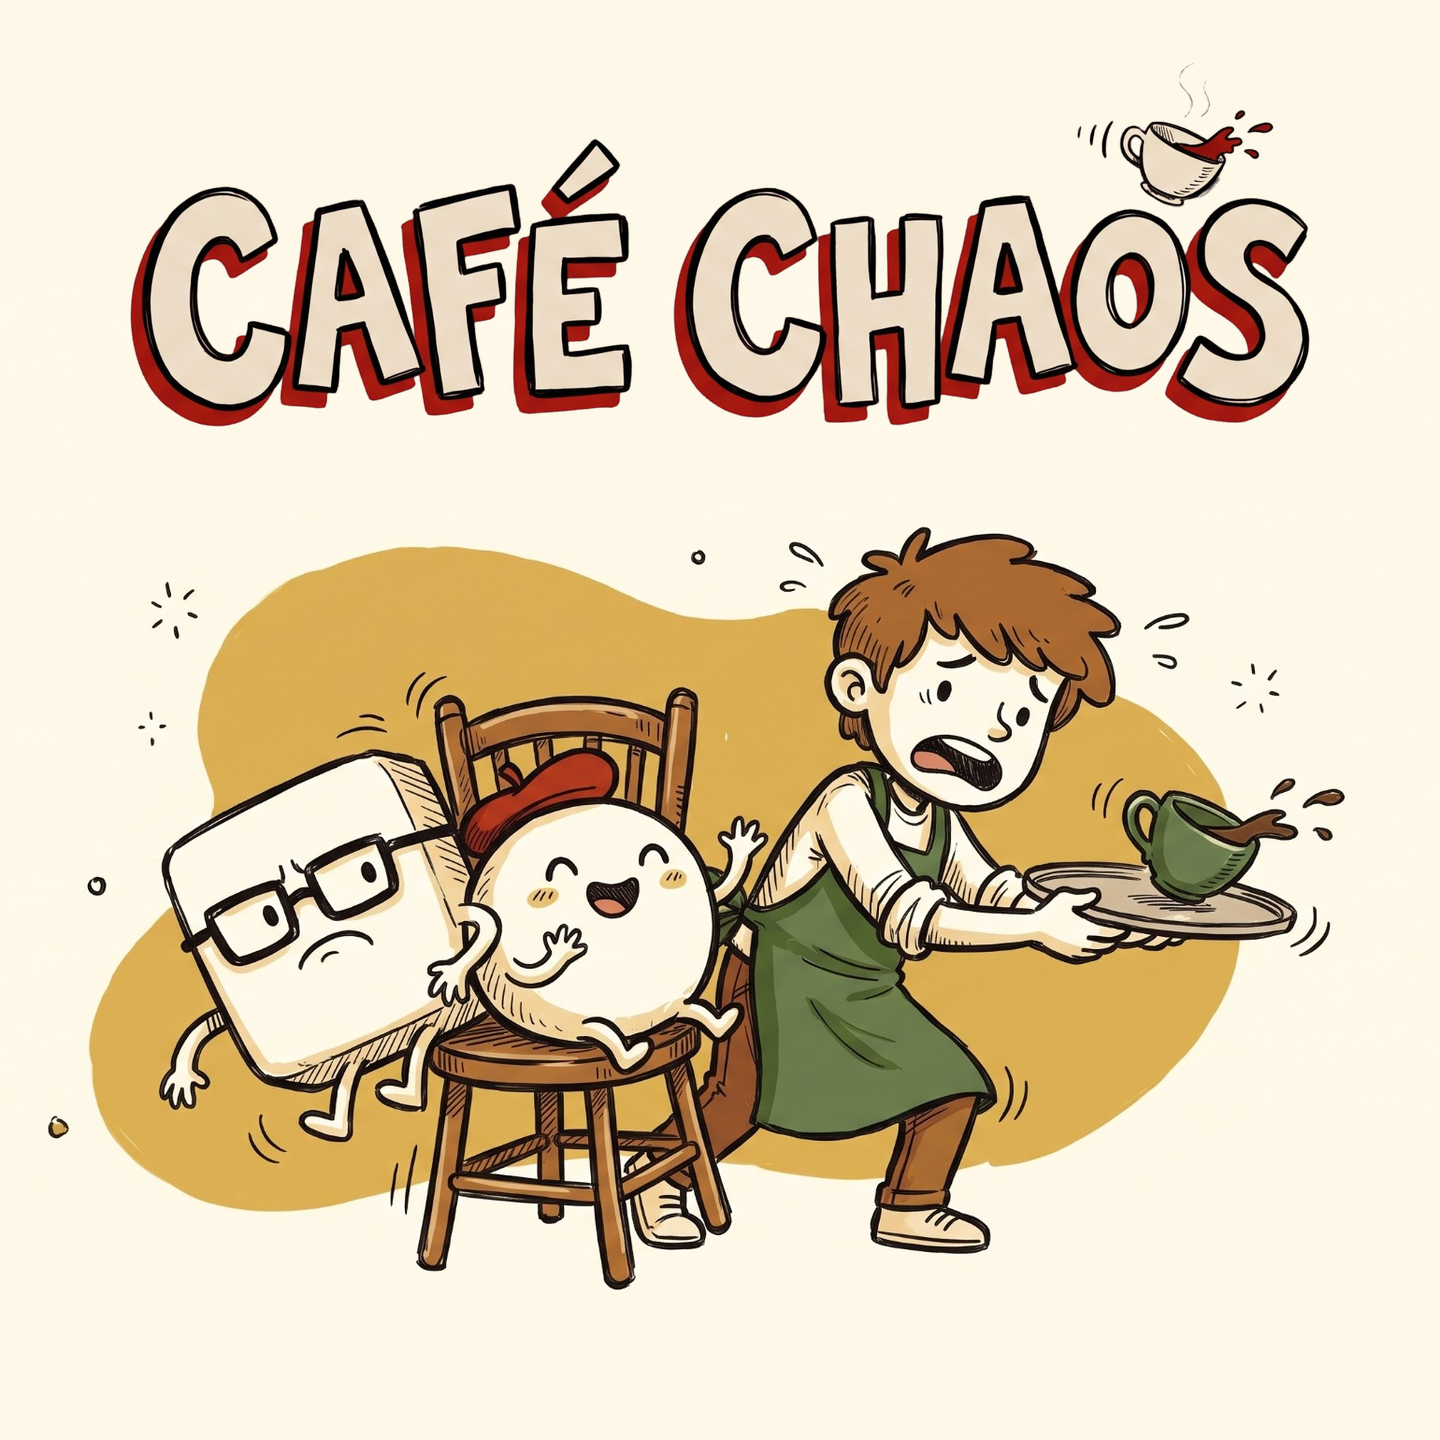
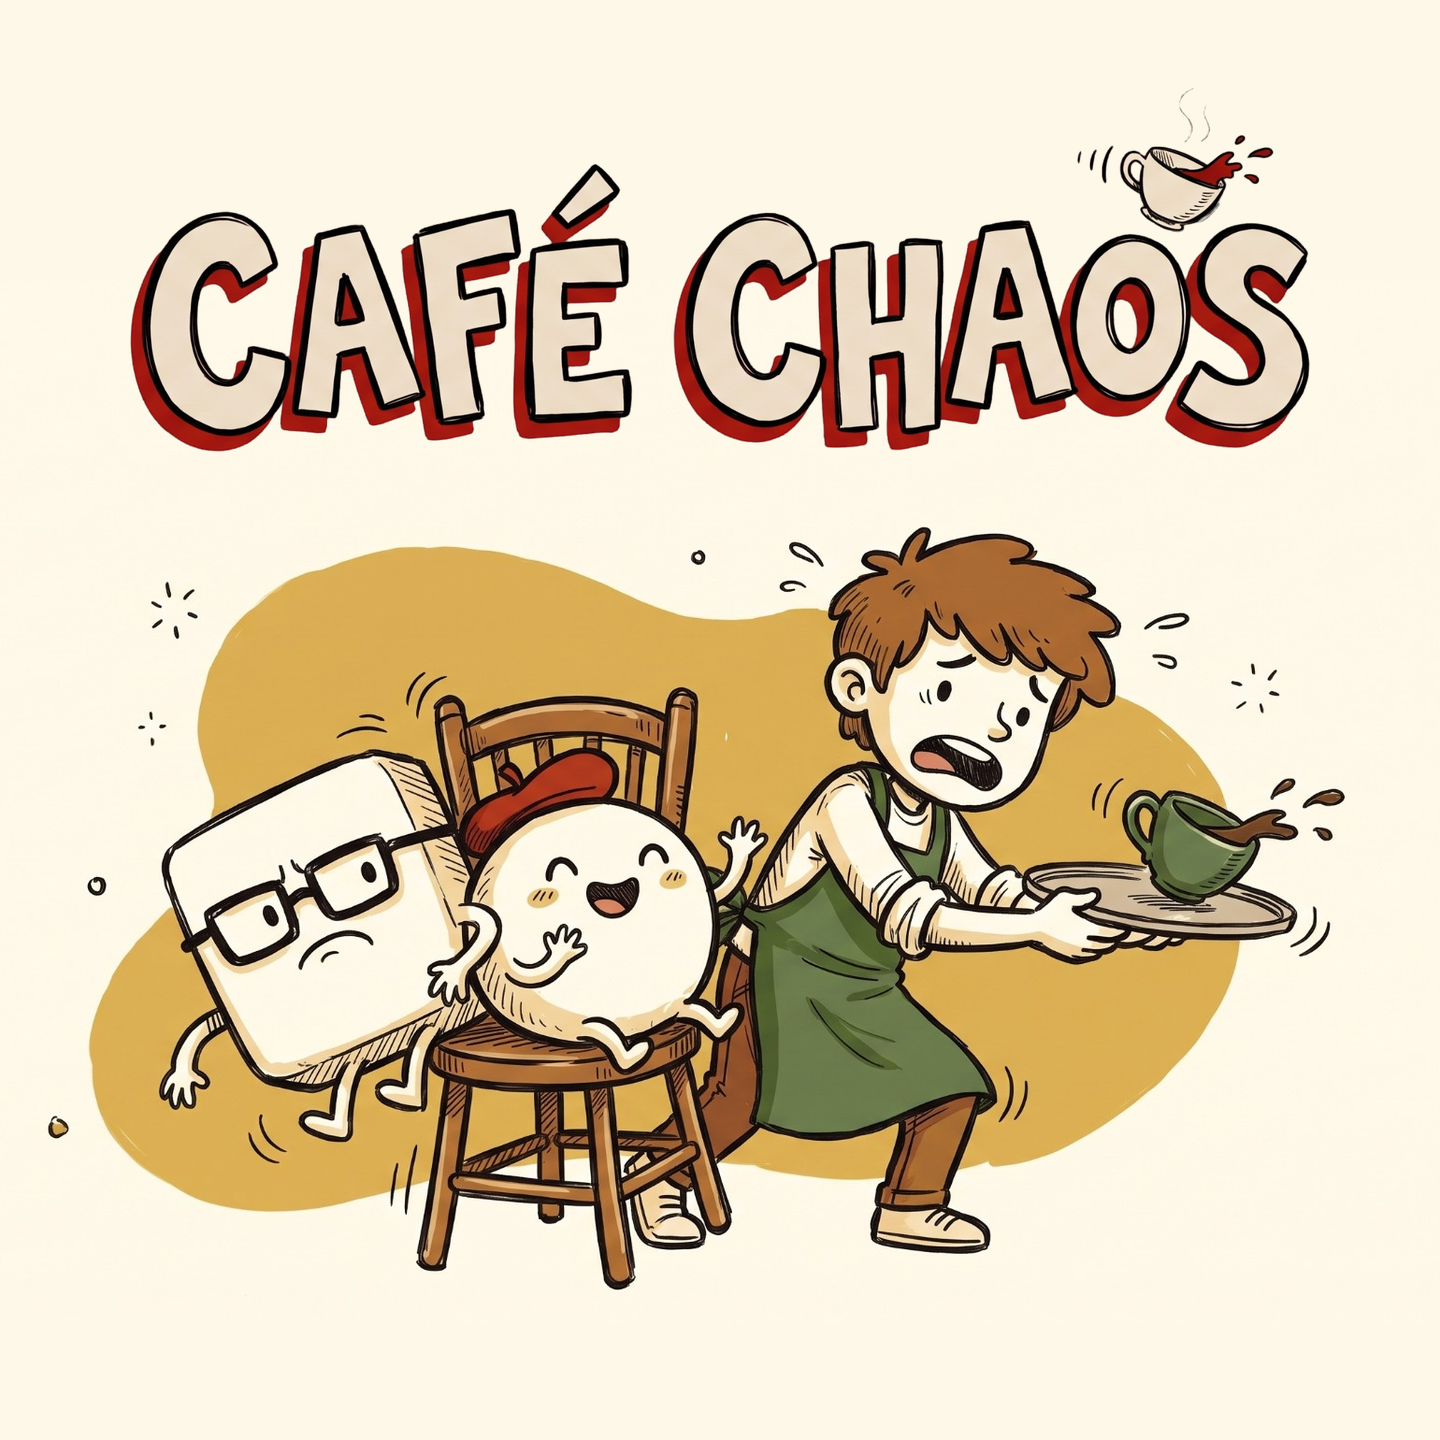
Store art: hero, portrait and mini (interim), link preview, video thumbnail
Claude-Session: https://claude.ai/code/session_01CFBC6GdxdukDFr7uJVy4bD

Changed region(s): [[0.4688, 0.0625, 0.9062, 0.3125], [0.0938, 0.0938, 0.4375, 0.3125]]

diff --git a/cafe-chaos/game/scripts/build-store-art.py b/cafe-chaos/game/scripts/build-store-art.py
@@ -158,16 +158,35 @@ def main() -> None:
     # Covers from the lockup (the cast on one chair; group at about x 490-1840, y 260-1100 of 2000×1116).
     art = Image.open(SRC / 'cover-lockup.jpg').convert('RGB')
     sq = paper_canvas(art, 1440, 1440, (400, -300, 1940, 1240))
-    place(sq, logo, 720, 245, 1180)
+    place(sq, logo, 720, 270, 1180)
     sq.save(OUT / 'cover-square-1440.png')
 
     land = paper_canvas(art, 2560, 1440, (-60, -40, 2060, 1153))
-    place(land, logo, 2560 * 0.33, 1440 * 0.17, 2560 * 0.5)
+    place(land, logo, 2560 * 0.33, 1440 * 0.21, 2560 * 0.5)
     land.save(OUT / 'cover-landscape-2560x1440.png')
 
     dev = paper_canvas(art, 1500, 1000, (240, -20, 2000, 1153))
-    place(dev, logo, 1500 * 0.33, 1000 * 0.16, 1500 * 0.56)
+    place(dev, logo, 1500 * 0.33, 1000 * 0.19, 1500 * 0.56)
     dev.save(OUT / 'devpost-1500x1000.png')
+
+    # Until The Pinch, the tower and the table come in: the same picture, the title centred (Meta: the hero's title centred).
+    hero = paper_canvas(art, 3000, 900, (-1093, -215, 3424, 1140))
+    place(hero, logo, 1500, 165, 820)
+    hero.save(OUT / 'hero-3000x900.png')
+
+    portrait = paper_canvas(art, 1008, 1440, (475, -811, 1855, 1160))
+    place(portrait, logo, 504, 450, 880)
+    portrait.save(OUT / 'cover-portrait-1008x1440.png')
+
+    mini = Image.new('RGB', (1080, 360), PAPER)
+    place(mini, logo, 540, 180, 800)
+    mini.save(OUT / 'mini-landscape-1080x360.png')
+
+    # Other places: a link preview (Open Graph), a video thumbnail.
+    share = paper_canvas(art, 1200, 630, (-100, -40, 2100, 1115))
+    place(share, logo, 1200 * 0.33, 630 * 0.21, 1200 * 0.5)
+    share.save(OUT / 'share-1200x630.png')
+    land.resize((1280, 720), Image.LANCZOS).save(OUT / 'video-thumbnail-1280x720.png')
     print('done:', ', '.join(sorted(p.name for p in OUT.iterdir())))
 
 

diff --git a/cafe-chaos/game/docs/STORE-ART.md b/cafe-chaos/game/docs/STORE-ART.md
@@ -66,9 +66,12 @@ a source.
   name inside the centre 80%). favicon-32/48: the C.
 - cover-square-1440.png, cover-landscape-2560x1440.png,
   devpost-1500x1000.png: from the cast-on-a-chair picture.
-- Still to come: Hero 3000×900 and Mini 1080×360 (The Pinch, the table),
-  Portrait 1008×1440 (the tower). The landscape cover moves to The Pinch
-  when it arrives, if it reads better.
+- hero-3000x900.png, cover-portrait-1008x1440.png,
+  mini-landscape-1080x360.png: interim, from the same picture (the title
+  centred on the hero and the mini). Replace with The Pinch (hero), the
+  tower (portrait) and the table (mini) when they come in.
+- share-1200x630.png (link preview), video-thumbnail-1280x720.png.
+- Still needed for the store: 5 screenshots, 2560×1440, real captures.
 
 ## Prompts (Nano Banana)
 
